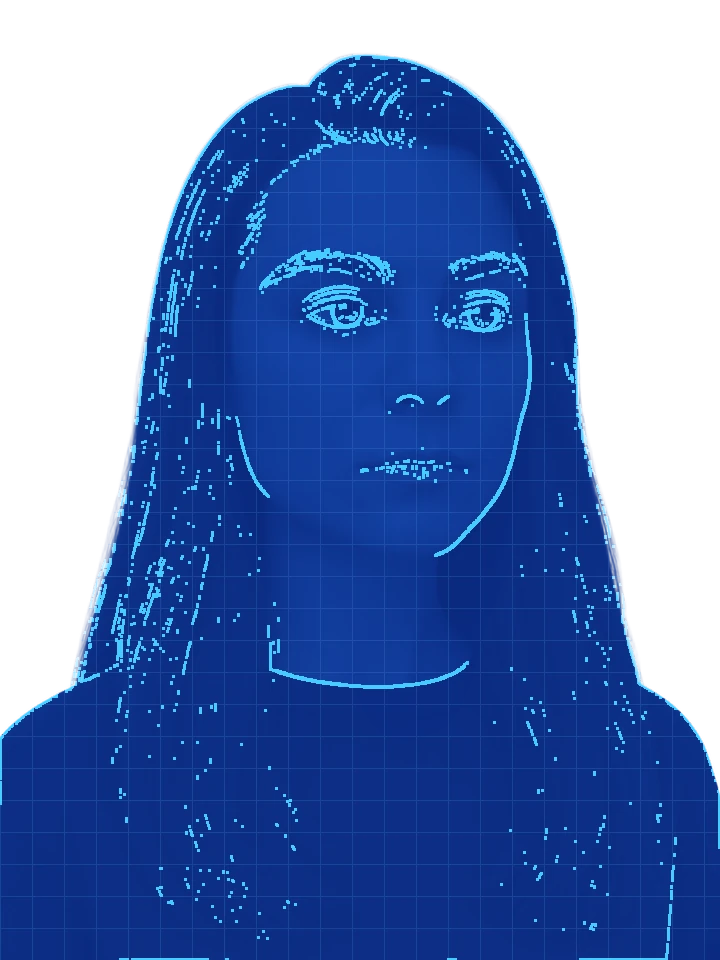
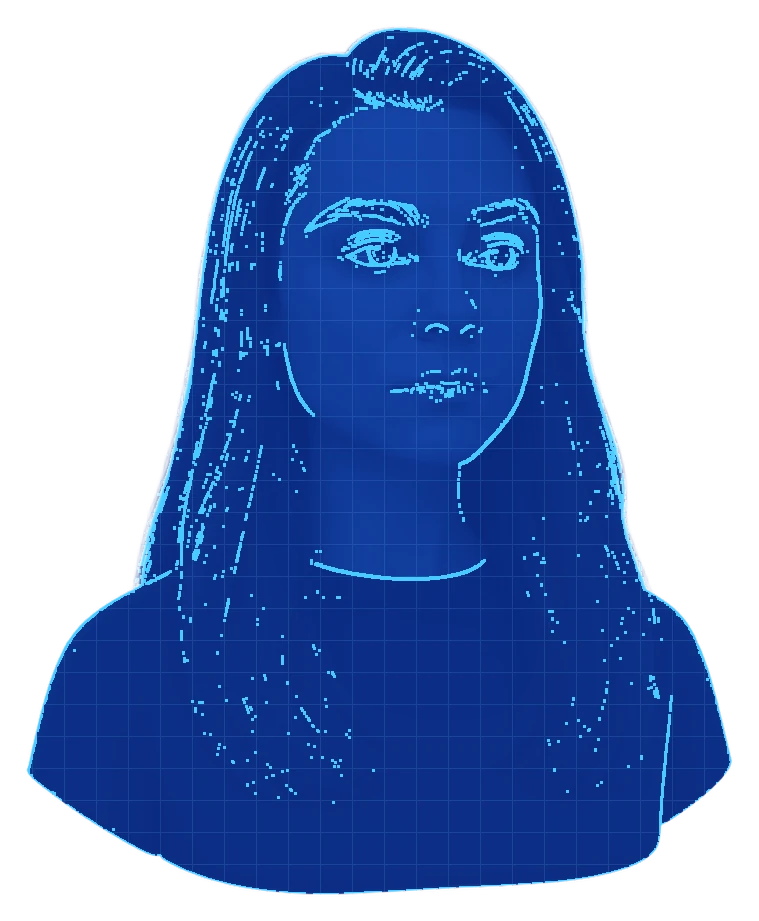
Show the full 3D bust with shoulders, facing the hero text
Replace the cropped head with a complete shoulder-length bust and
stop the layout from clipping it. The face now looks toward the copy.

diff --git a/src/HeroAvatar.css b/src/HeroAvatar.css
@@ -1,20 +1,25 @@
 .hero-avatar-stage {
-  --avatar-w: clamp(250px, 36vw, 420px);
+  --avatar-w: clamp(280px, 40vw, 460px);
   --mx: 50%;
   --my: 40%;
   position: relative;
   width: var(--avatar-w);
-  aspect-ratio: 3 / 4;
   flex-shrink: 0;
   cursor: none;
 }
 
 .hero-avatar-rig {
-  position: absolute;
-  inset: 0;
+  position: relative;
+  width: 100%;
 }
 
-.hero-avatar-photo,
+.hero-avatar-photo {
+  display: block;
+  width: 100%;
+  height: auto;
+  pointer-events: none;
+}
+
 .hero-avatar-blueprint img {
   position: absolute;
   inset: 0;
@@ -22,7 +27,6 @@
   width: 100%;
   height: 100%;
   object-fit: contain;
-  object-position: center bottom;
   pointer-events: none;
 }
 
